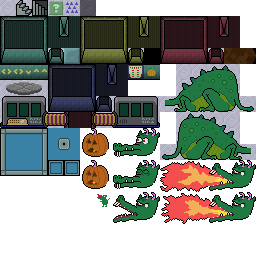
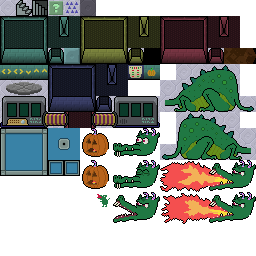
keep orphans clothed, and some castle repairs

Changed region(s): [[0.9375, 0.5, 1.0, 0.5625], [0.625, 0.3125, 0.6875, 0.375]]

diff --git a/src/app/sprite/types/fmn_sprite_werewolf.c b/src/app/sprite/types/fmn_sprite_werewolf.c
@@ -1,5 +1,6 @@
 #include "app/sprite/fmn_sprite.h"
 #include "app/hero/fmn_hero.h"
+#include "app/fmn_game.h"
 #include <math.h>
 
 // Don't change stages; renderer depends on them!
@@ -19,6 +20,8 @@
 
 #define WEREWOLF_HADOUKEN_CONE_SLOPE 2.0f /* 1.0f=45deg, higher is narrower */
 #define WEREWOLF_HADOUKEN_SPEED 13.0f
+
+#define gsbit_defeated sprite->argv[0]
 
 #define stage sprite->bv[0]
 #define next_move sprite->bv[1] /* 0,1,2,3 = hadouken,walk,floorfire,walk */
@@ -163,6 +166,7 @@ static void werewolf_sleep(struct fmn_sprite *sprite,int sleep) {
  
 static void werewolf_die(struct fmn_sprite *sprite) {
   fmn_log_event("kill-werewolf","");
+  if (gsbit_defeated) fmn_gs_set_bit(gsbit_defeated,1);
   fmn_sprite_generate_soulballs(sprite->x,sprite->y,6,0);
   fmn_sound_effect(FMN_SFX_KILL_WEREWOLF);
   fmn_play_song(0xff,0);

diff --git a/src/app/sprite/types/fmn_sprite_orphan.c b/src/app/sprite/types/fmn_sprite_orphan.c
@@ -1,4 +1,7 @@
 #include "app/sprite/fmn_sprite.h"
+#include "app/fmn_game.h"
+
+#define gsbit_clothed sprite->argv[0]
 
 #define tileid0 sprite->bv[0]
 #define clothed sprite->bv[1] /* orphans can't be both clothed and asleep -- clothed only happens in the non-interactive outtro sequence */
@@ -124,6 +127,10 @@ static int16_t _orphan_interact(struct fmn_sprite *sprite,uint8_t itemid,uint8_t
  
 static void _orphan_init(struct fmn_sprite *sprite) {
   tileid0=sprite->tileid;
+  if (gsbit_clothed&&fmn_gs_get_bit(gsbit_clothed)) {
+    clothed=1;
+    sprite->tileid=tileid0+4;
+  }
   orphan_reset_animation(sprite);
   orphan_create_snowflake(sprite);
 }

diff --git a/README.md b/README.md
@@ -11,10 +11,10 @@ Tentatively aiming for full release 29 September 2023, the first full moon of au
 
 - [x] Soulballs track badly when respawning.
 - [x] Konami code easter egg.
-- [ ] Orphans should keep their winter clothes after your first victory.
-- [ ] Ensure feather actuates dragons on all exposed parts (possibly beyond the sprite).
-- [ ] Possible to stand inside the dragon's head. Fire should hit you there.
-- [ ] Castle 2f, the one with gamma, lambda, and water: Add a conveyor in the vertical corridor so lambda can't escape that way. And move button to more convenient spot.
+- [x] Orphans should keep their winter clothes after your first victory.
+- [x] Ensure feather actuates dragons on all exposed parts (possibly beyond the sprite).
+- [x] Possible to stand inside the dragon's head. Fire should hit you there.
+- [x] Castle 2f, the one with gamma, lambda, and water: Add a conveyor in the vertical corridor so lambda can't escape that way. And move button to more convenient spot.
 - [ ] Confirm tolltroll acknowledges invisible. And everything else sight-oriented.
 - [ ] Firewall: Respect invisibility.
 - [ ] Lambda and charmed pushblock: Hesitate briefly at cell boundaries.
